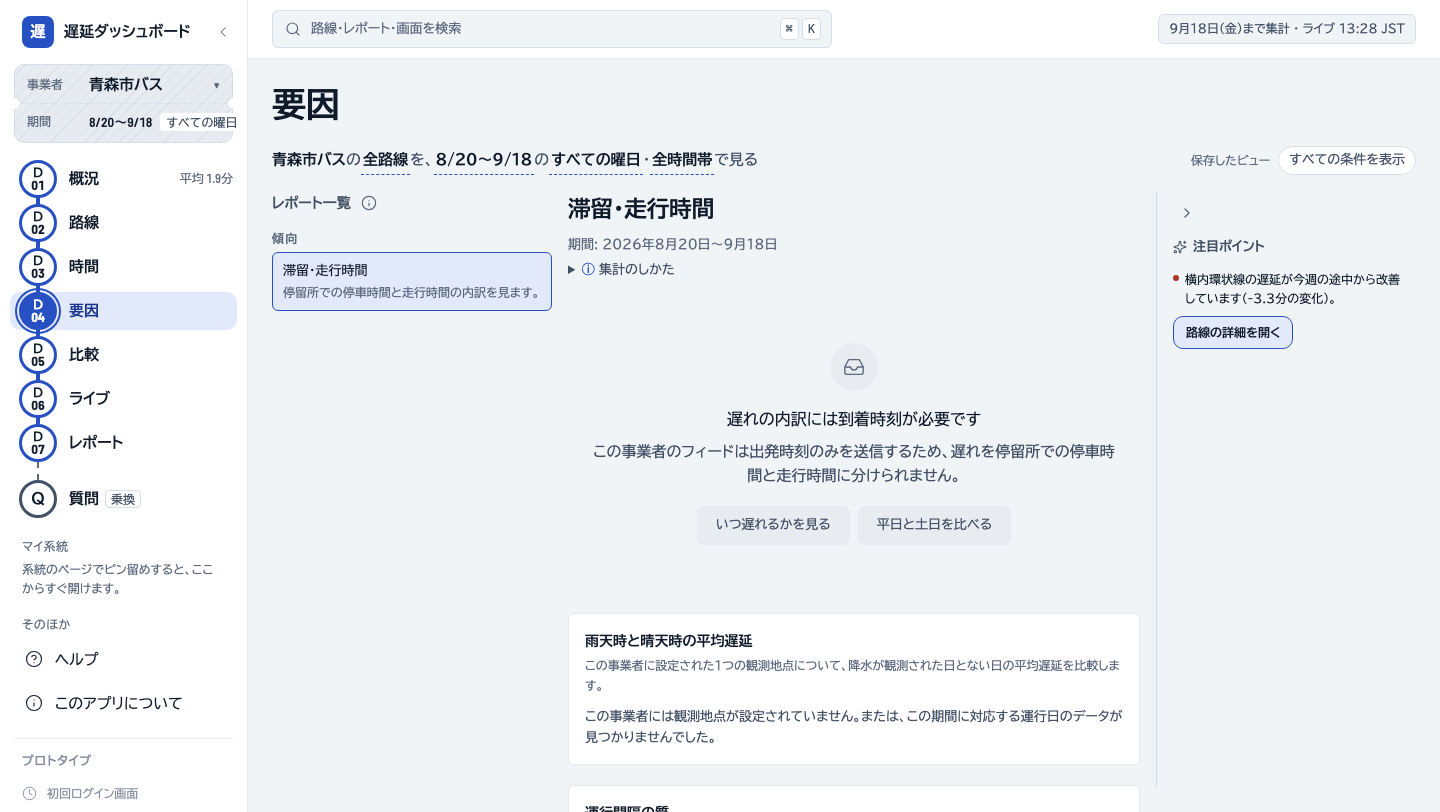
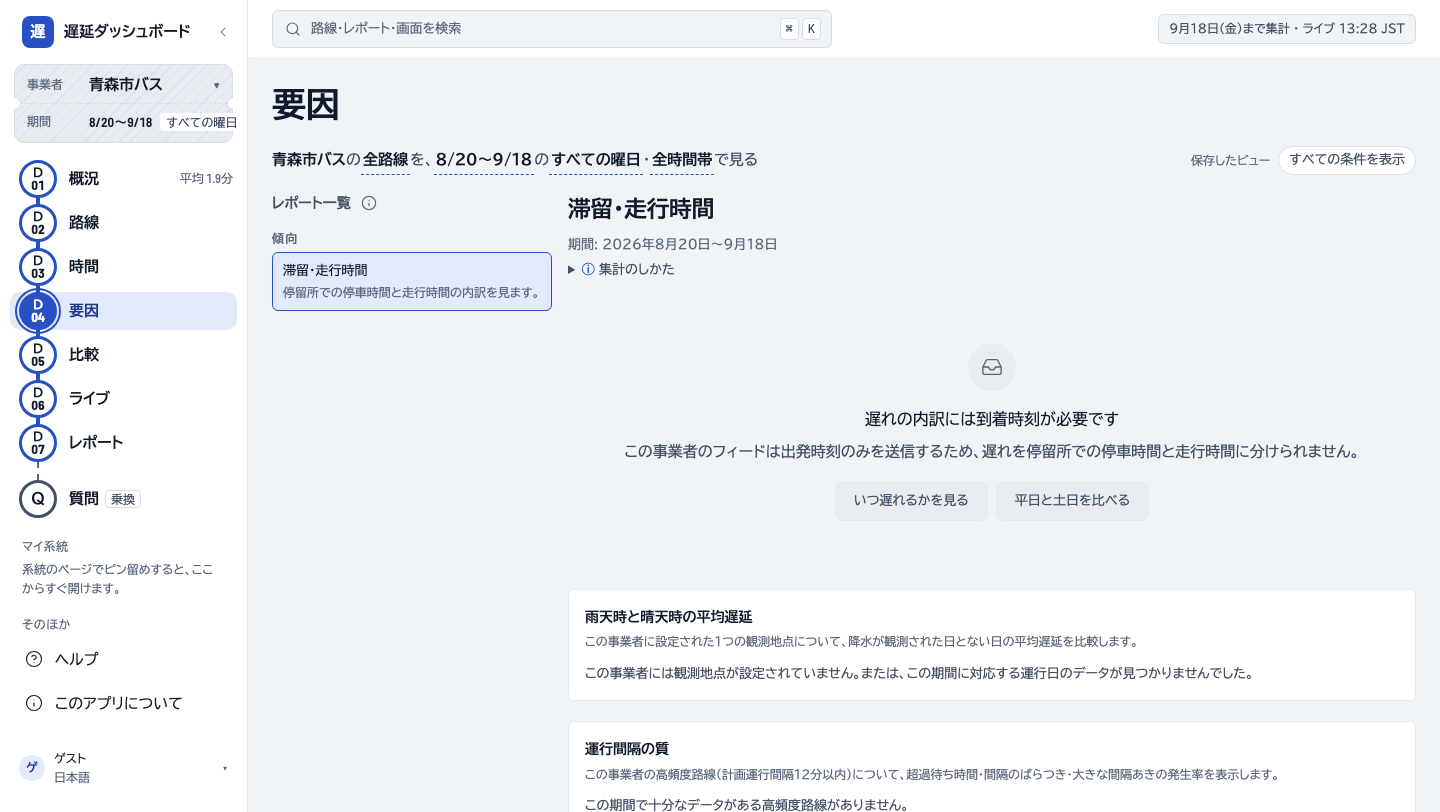
fix(scripts): capture against a production build, per review
Both reviewers independently found the same breaking bug: the script
located the period popover by its rendered text, a literal date range
("8/20") that is this dataset's own current window -- the very next run
of a tool whose stated purpose is "run this when the data moves on"
would have timed out on that exact step. Replaced with a structural
`.scope-token` locator (the period token's stable position in the scope
sentence), matching this repo's own existing Playwright tests, which
already prefer structural/class selectors over literal copy for exactly
this reason.

Also from review, all confirmed by direct visual inspection of the
shipped screenshots, not just read from the diff:
- Every one of the 26 recaptured images showed a dev-only sidebar
  section ("PROTOTYPE / First-time login screen", gated by
  `import.meta.env.DEV`) that a real visitor never sees -- the dev
  server always has that flag true. The script now defaults to a
  production build (`npm run build && make bake`, served from the
  backend) instead of the Vite dev server, and asserts the account-menu
  landmark is present before the first shot, so a login wall (the one
  real failure mode of running this as a guest) aborts loudly instead
  of silently shipping a login-page capture.
- A first-visit "New here?" toast was left showing, un-dismissed, over
  at least two scenes -- nondeterministic, since whether it had reached
  its 3-second show-delay by capture time depended on exactly how far
[…]

diff --git a/scripts/capture_user_manual_screenshots.py b/scripts/capture_user_manual_screenshots.py
@@ -1,17 +1,24 @@
 #!/usr/bin/env python3
 """Recaptures every screenshot in frontend/public/user-manual/{en,ja}.md
-against the real running app, so the manual can be refreshed whenever the
-UI drifts out from under it (as it did -- a sidebar redesign and the
-vehicle-clustering removal both went unnoticed in the manual's images for
-weeks) instead of by hand, scene by scene.
+against the real running app, so the manual can be refreshed by running one
+command instead of by hand, scene by scene -- the manual's screenshots have
+no automated staleness check, so a UI change can drift out from under them
+indefinitely otherwise.
 
-Requires: the frontend dev server reachable at --base (default
-http://localhost:5174, i.e. `make frontend-dev`), agency 1 holding real
-data, and `login_required` off for the duration of the run -- the manual
-is captured as a guest, matching how a first-time visitor actually sees
-it. Toggling that flag is a `feature_flags` write, which the dev-database
-guard blocks from an agent's own tool calls; run this script via the `!`
-prefix (a human-run command), or from a session with that guard disabled.
+Requires, in order:
+  1. A production build served at --base (default http://localhost:8000,
+     i.e. `cd frontend && npm run build && cd .. && make bake`, then a
+     running `make serve`/uvicorn backend). The dev server mounts a
+     dev-only sidebar section (`import.meta.env.DEV`) that a production
+     build never shows -- capturing against it would document a debug
+     shortcut menu as if it were part of the real end-user sidebar.
+  2. Agency 1 holding real data.
+  3. `login_required` off for the run -- the manual is captured as a guest,
+     matching how a first-time visitor actually sees it. Toggling that
+     flag is a separate, human `feature_flags` admin action (the dev-
+     database guard blocks the write from an agent's own tool calls); flip
+     it via the admin flags UI/API before running this script, and back on
+     once it finishes. This script never touches that flag itself.
 
 Usage:
     poetry run python scripts/capture_user_manual_screenshots.py [--locale ja|en|both] [--base URL]
@@ -20,6 +27,7 @@ Usage:
 from __future__ import annotations
 
 import argparse
+import re
 from pathlib import Path
 
 from playwright.sync_api import Page, ViewportSize, sync_playwright
@@ -27,38 +35,39 @@ from playwright.sync_api import Page, ViewportSize, sync_playwright
 OUT_DIR = Path(__file__).resolve().parent.parent / "frontend" / "public" / "user-manual"
 VIEWPORT: ViewportSize = {"width": 1440, "height": 812}
 AGENCY_ID = 1
-ROUTE_FOR_CERTIFICATE = "33101"
 
 # One label per interactive step, per locale -- each is a real accessible
-# name or visible string read back from the i18n locale files, not a guess.
+# name or visible string read back from the i18n locale files (never a
+# value derived from the current dataset, like a date range, which would
+# stop matching the next time this script runs against fresher data).
 LABELS = {
     "ja": {
-        "period": "8/20",
         "hint": "ヒント",
         "on_time": "定時率",
         "agencies_tab": "事業者どうし",
         "you_badge": "あなた",
-        "later": "後で",
         "ask_card": "遅延の大きい路線：上位5件",
         "returned_data": "取得したデータ",
         "council_tab": "協議会向けまとめ・遅延証明",
         "certificate": "遅延証明書",
         "route_label": "路線",
         "route_placeholder": "路線を検索",
+        "playback_toggle": "1日の動きを再生",
+        "later": "後で",
     },
     "en": {
-        "period": "8/20",
         "hint": "Hint",
         "on_time": "On-time rate",
         "agencies_tab": "Agencies",
         "you_badge": "YOU",
-        "later": "Later",
         "ask_card": "most delayed routes",
         "returned_data": "View returned data",
         "council_tab": "Council report",
         "certificate": "Delay certificate",
         "route_label": "Route",
         "route_placeholder": "Search routes",
+        "playback_toggle": "Play the day",
+        "later": "Later",
     },
 }
 
@@ -69,14 +78,47 @@ def shot(page: Page, name: str, locale: str) -> None:
     print(f"wrote {path}")
 
 
+def assert_dashboard(page: Page) -> None:
+    """Fails loudly if the guest session landed on a login wall instead of
+    the dashboard, rather than silently capturing and shipping that as a
+    scene -- `login_required` left on is the one setup mistake that would
+    otherwise corrupt every screenshot in the same way."""
+    page.locator("[aria-label='Account menu'], [aria-label='アカウントメニュー']").first.wait_for(
+        state="visible", timeout=15_000
+    )
+
+
+def first_route_code(page: Page, agency: str) -> str:
+    """The top-ranked route on the delay-ranking report, read live off the
+    page rather than a hardcoded code -- next time this runs, that week's
+    top route will likely differ, and a code that no longer has any
+    certificate-eligible departure would otherwise abort the whole run."""
+    page.goto(f"{agency}/routes")
+    page.wait_for_load_state("networkidle")
+    row = page.locator("table tbody tr").first
+    row.wait_for(timeout=15_000)
+    text = row.inner_text()
+    # Route rows read like "...中大野→野木 33101\xa0›\t平日\t...5.8..." -- the
+    # route code is the run of digits immediately before the "›" link
+    # marker, not the row's last number (later columns are stats, not the
+    # code).
+    match = re.search(r"(\d+)\s*\xa0?[››]", text)
+    if not match:
+        raise RuntimeError(f"could not read a route code from ranking row: {text!r}")
+    return match.group(1)
+
+
 def capture(base: str, locale: str) -> None:
     L = LABELS[locale]
     with sync_playwright() as p:
         browser = p.chromium.launch()
 
         # 01: fresh context -- no agency chosen yet.
-        ctx = browser.new_context(viewport=VIEWPORT)
-        ctx.add_init_script(f"window.localStorage.setItem('app.locale', '{locale}')")
+        ctx = browser.new_context(viewport=VIEWPORT, reduced_motion="reduce")
+        ctx.add_init_script(
+            f"window.localStorage.setItem('app.locale', '{locale}');"
+            "window.localStorage.setItem('help_hint_dismissed', '1');"
+        )
         page = ctx.new_page()
         page.goto(f"{base}/")
         page.wait_for_load_state("networkidle")
@@ -85,18 +127,27 @@ def capture(base: str, locale: str) -> None:
         ctx.close()
 
         # Every other scene: agency already chosen via the URL.
-        ctx = browser.new_context(viewport=VIEWPORT)
-        ctx.add_init_script(f"window.localStorage.setItem('app.locale', '{locale}')")
+        ctx = browser.new_context(viewport=VIEWPORT, reduced_motion="reduce")
+        ctx.add_init_script(
+            f"window.localStorage.setItem('app.locale', '{locale}');"
+            "window.localStorage.setItem('help_hint_dismissed', '1');"
+        )
         page = ctx.new_page()
         agency = f"{base}/agencies/{AGENCY_ID}"
+        route_code = first_route_code(page, agency)
 
         page.goto(f"{agency}/pulse")
         page.wait_for_load_state("networkidle")
-        page.wait_for_timeout(800)
+        assert_dashboard(page)
+        page.wait_for_timeout(500)
         shot(page, "02-pulse", locale)
 
-        # 03: scope sentence, period popover open.
-        page.get_by_role("button", name=L["period"], exact=False).first.click()
+        # 03: scope sentence, period popover open. The period token is the
+        # second `.scope-token` button in the sentence (route, period, dow,
+        # time band, ...) -- located by that stable structural position,
+        # never by its rendered text, which is the dataset's own date range
+        # and moves every time this script's objective runs it again.
+        page.locator(".scope-token").nth(1).click()
         page.wait_for_timeout(400)
         shot(page, "03-scope-sentence", locale)
         page.keyboard.press("Escape")
@@ -104,7 +155,7 @@ def capture(base: str, locale: str) -> None:
 
         page.goto(f"{agency}/routes")
         page.wait_for_load_state("networkidle")
-        page.wait_for_timeout(800)
+        page.wait_for_timeout(500)
         shot(page, "05-routes-ranking", locale)
 
         # 06: the report-list hint popover.
@@ -117,77 +168,93 @@ def capture(base: str, locale: str) -> None:
         # 08: the on-time-rate report.
         page.get_by_text(L["on_time"], exact=True).first.click()
         page.wait_for_load_state("networkidle")
-        page.wait_for_timeout(800)
+        page.wait_for_timeout(500)
         shot(page, "08-routes-ontime", locale)
 
         page.goto(f"{agency}/time")
         page.wait_for_load_state("networkidle")
-        page.wait_for_timeout(800)
+        page.wait_for_timeout(500)
         shot(page, "07-time-trend", locale)
 
         page.goto(f"{agency}/why")
         page.wait_for_load_state("networkidle")
-        page.wait_for_timeout(800)
+        page.wait_for_timeout(500)
         shot(page, "09-why", locale)
 
         # 10: compare -> agencies tab, waiting for the ranked table (not
         # just the tab switch) to actually render.
         page.goto(f"{agency}/compare")
         page.wait_for_load_state("networkidle")
-        page.wait_for_timeout(500)
+        page.wait_for_timeout(300)
         page.get_by_text(L["agencies_tab"], exact=True).first.click()
-        page.get_by_text(L["you_badge"], exact=True).first.wait_for(timeout=15000)
-        page.wait_for_timeout(500)
+        page.get_by_text(L["you_badge"], exact=True).first.wait_for(timeout=15_000)
+        page.wait_for_timeout(300)
         shot(page, "10-compare-agencies", locale)
 
-        # 11: live map. Dismissing the first-time tour is best-effort --
-        # the feed may be quiet at capture time regardless, which is itself
-        # a real, documented state (see the manual's own "no vehicles"
-        # paragraph), not a capture failure.
+        # 11: live map. Prefer a populated replay of the latest observed
+        # day over the live feed's own instant, which can be quiet at
+        # capture time and would otherwise ship an empty map that neither
+        # matches the manual's own description of it nor demonstrates
+        # anything about how markers render.
         page.goto(f"{agency}/live")
         page.wait_for_load_state("networkidle")
-        page.wait_for_timeout(1500)
-        later = page.get_by_text(L["later"], exact=True)
-        if later.count() > 0:
-            later.first.click()
+        page.wait_for_timeout(1000)
+        tour_dismiss = page.get_by_text(L["later"], exact=True)
+        if tour_dismiss.count() > 0:
+            tour_dismiss.first.click()
             page.wait_for_timeout(300)
-        page.wait_for_timeout(2000)
+        empty_state = page.locator(".ops-map__empty")
+        if empty_state.count() > 0:
+            empty_state.get_by_text(L["playback_toggle"], exact=False).first.click()
+            page.wait_for_timeout(1500)
+            # Jump the scrubber past the service day's start (where there is
+            # rarely any service yet) to a mid-afternoon frame, instead of
+            # waiting out real-time autoplay to get there.
+            scrubber = page.locator("input.scrub-input")
+            if scrubber.count() > 0:
+                max_index = int(scrubber.get_attribute("max") or 0)
+                if max_index > 0:
+                    scrubber.fill(str(int(max_index * 0.65)))
+                    page.wait_for_timeout(1500)
         shot(page, "11-live", locale)
 
         page.goto(f"{agency}/ask")
         page.wait_for_load_state("networkidle")
-        page.wait_for_timeout(800)
+        page.wait_for_timeout(500)
         shot(page, "12-ask-landing", locale)
 
         # 13: answer a ready-made question, waiting for the real result
         # (not just the loading state) before capturing.
         page.get_by_text(L["ask_card"], exact=False).first.click()
-        page.get_by_text(L["returned_data"], exact=False).first.wait_for(timeout=20000)
-        page.wait_for_timeout(500)
+        page.get_by_text(L["returned_data"], exact=False).first.wait_for(timeout=20_000)
+        page.wait_for_timeout(300)
         shot(page, "13-ask-answer", locale)
 
-        # 15: the delay-certificate's full three-step flow -- route, then
+        # 15: the delay-certificate's full three-step flow -- the same
+        # top-ranked route read off the ranking report earlier, then
         # whichever departure its own data returns.
         page.goto(f"{agency}/reports")
         page.wait_for_load_state("networkidle")
-        page.wait_for_timeout(500)
+        page.wait_for_timeout(300)
         page.get_by_text(L["council_tab"], exact=False).first.click()
-        page.wait_for_timeout(500)
+        page.wait_for_timeout(300)
         page.get_by_text(L["certificate"], exact=True).first.click()
-        page.wait_for_timeout(800)
+        page.wait_for_timeout(500)
         page.get_by_label(L["route_label"], exact=True).click()
         page.wait_for_timeout(300)
-        page.get_by_placeholder(L["route_placeholder"], exact=False).fill(ROUTE_FOR_CERTIFICATE)
+        page.get_by_placeholder(L["route_placeholder"], exact=False).fill(route_code)
         page.wait_for_timeout(500)
-        page.get_by_role("option").first.click()
-        page.wait_for_timeout(1500)
+        option = page.get_by_role("option").first
+        option.wait_for(timeout=15_000)
+        option.click()
+        page.wait_for_timeout(1200)
         select = page.locator("select").last
-        select.wait_for(timeout=15000)
+        select.wait_for(timeout=15_000)
         options = select.locator("option").all()
         if len(options) > 1:
             value = options[1].get_attribute("value")
             select.select_option(value=value)
-        page.wait_for_timeout(1000)
+        page.wait_for_timeout(500)
         shot(page, "15-reports-certificate", locale)
 
         ctx.close()
@@ -195,9 +262,9 @@ def capture(base: str, locale: str) -> None:
 
 
 def main() -> int:
-    parser = argparse.ArgumentParser(description=__doc__)
+    parser = argparse.ArgumentParser(description=__doc__, formatter_class=argparse.RawDescriptionHelpFormatter)
     parser.add_argument("--locale", choices=["ja", "en", "both"], default="both")
-    parser.add_argument("--base", default="http://localhost:5174")
+    parser.add_argument("--base", default="http://localhost:8000")
     args = parser.parse_args()
     locales = ["ja", "en"] if args.locale == "both" else [args.locale]
     for locale in locales:
